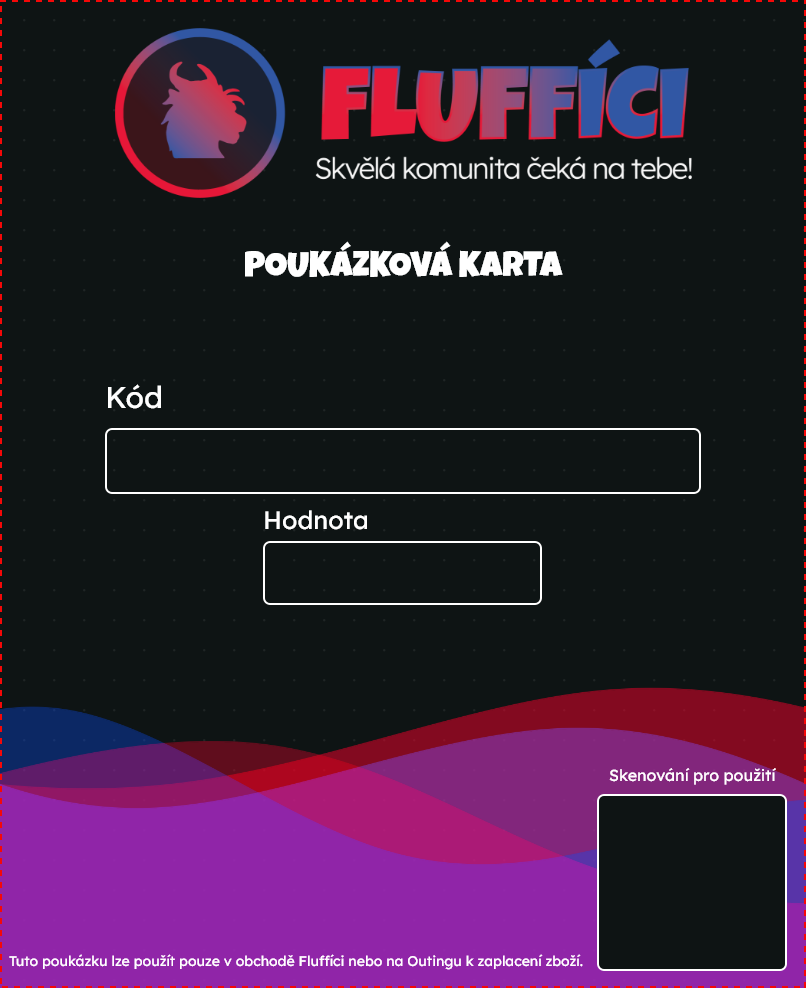
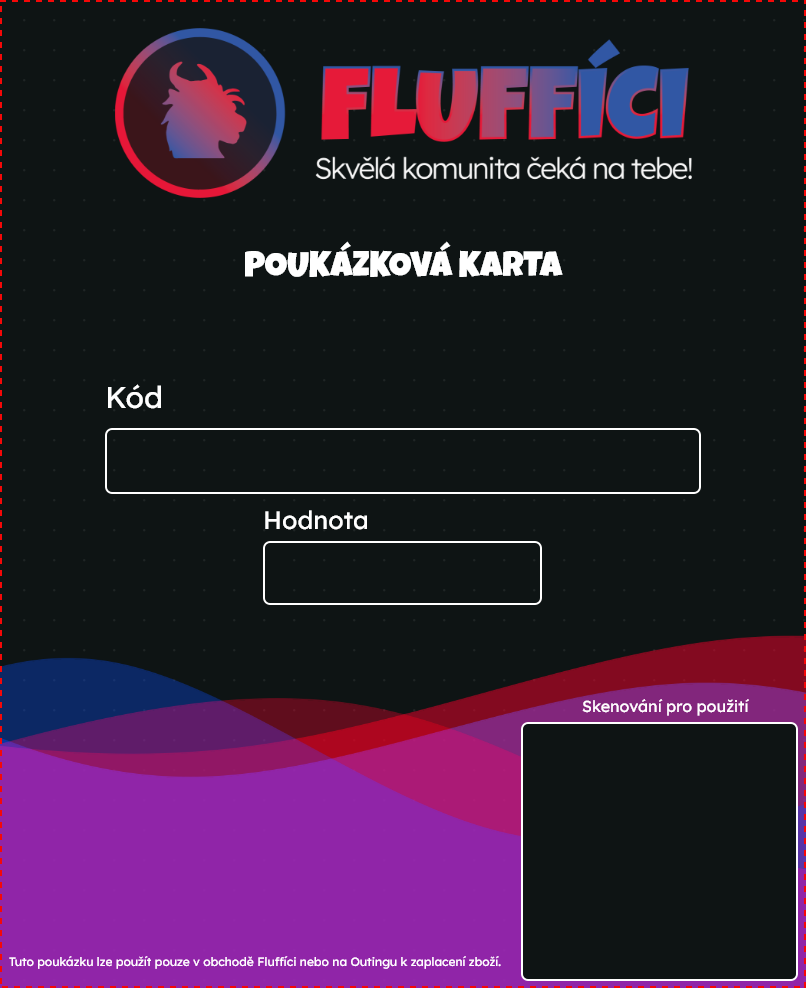
update(*): Updating voucher model

Changed region(s): [[0.0, 0.6377, 1.0, 1.0]]

diff --git a/node/index.js b/node/index.js
@@ -50,7 +50,7 @@ app.post('/voucher/:price', async function (req, res) {
 
         setTimeout(async () => {
             await loadImage(path.join(__dirname, 'cache', id + '-datamatrix.png')).then(img => {
-                ctx.drawImage(img, 612,803, 160, 160)
+                ctx.drawImage(img, 536,728, 247, 247)
             })
 
             const out = fs.createWriteStream(path.join(__dirname, '../src/storage/app/public', id + '-code.png')),
